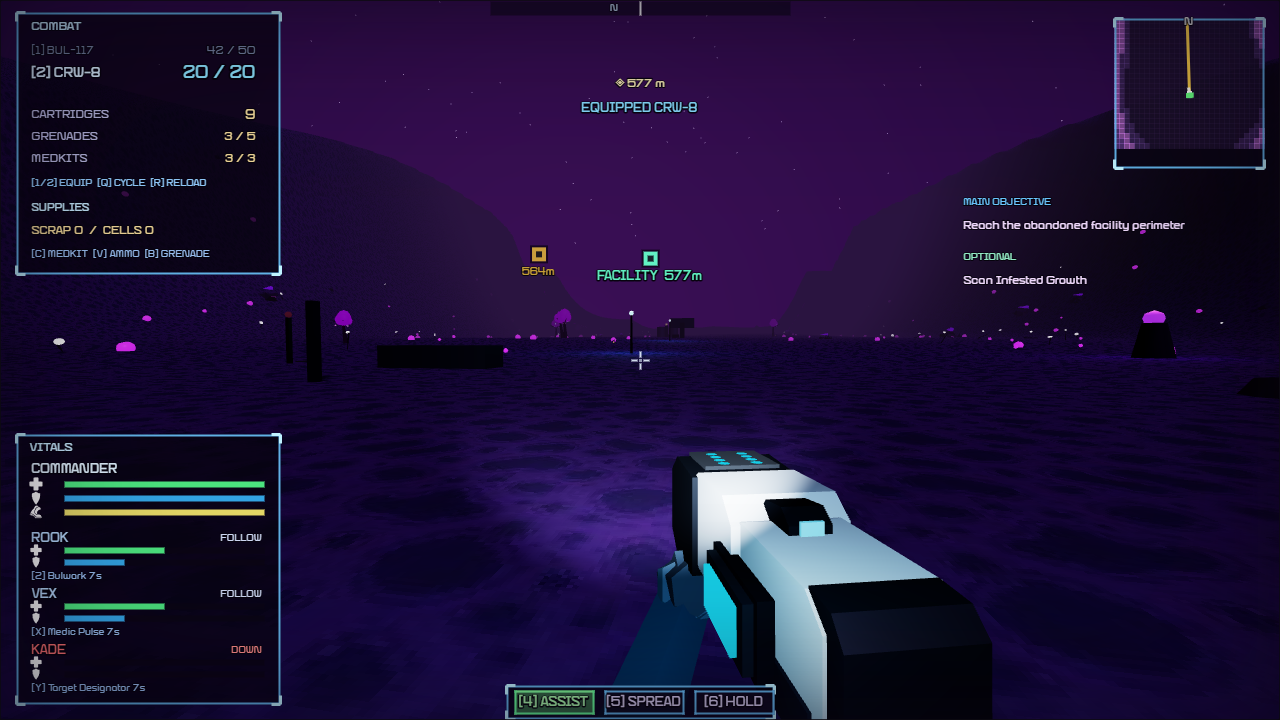
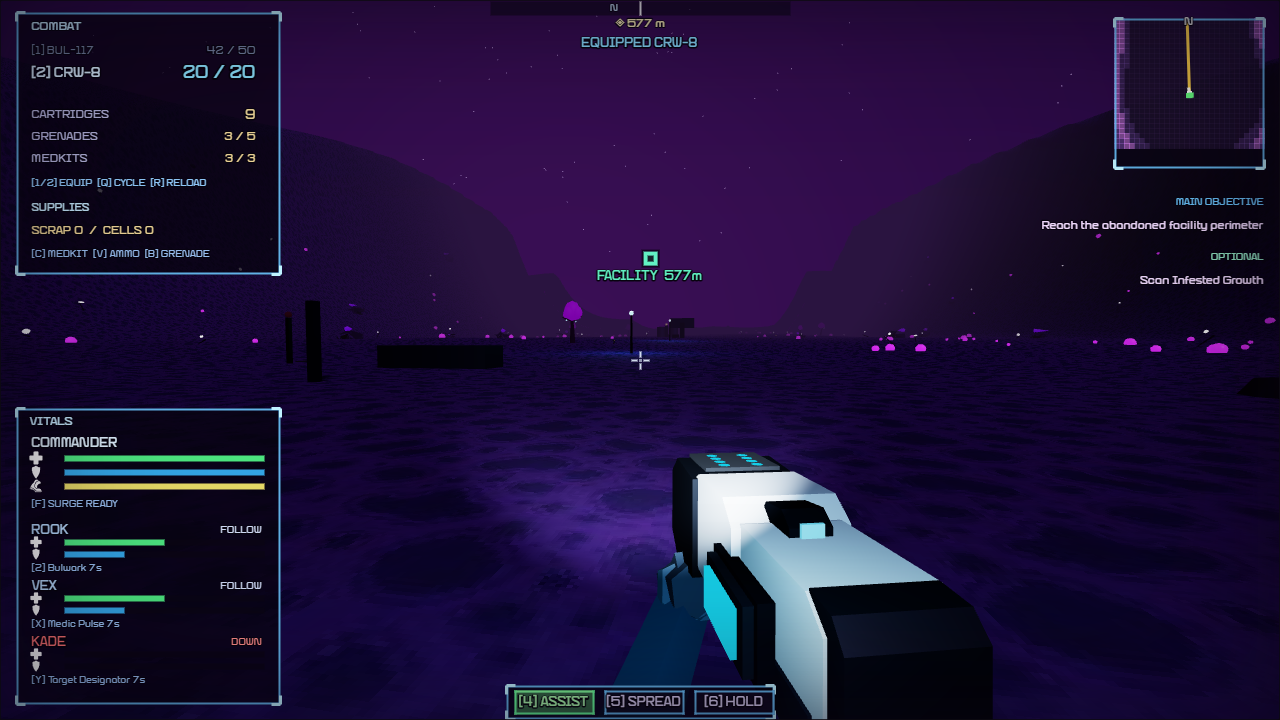
refactor: refine navigation and objective hud

diff --git a/chargefront.html b/chargefront.html
@@ -3546,7 +3546,7 @@ function updateEndless(dt) {
 }
 /* ── run setup ── */
 function resetEndlessRun() {
-    objectiveHUD.clear();
+    objectiveHUD.clear(); clearOptionalMarkerState();
     endlessRun.wave = 0; endlessRun.waveActive = false; endlessRun.waveT = 0;
     endlessRun.budgetLeft = 0; endlessRun.spawnT = 0; endlessRun.alive = 0; endlessRun.bossSpawned = false;
     endlessRun.dna = 0; endlessRun.dnaBanked = 0; endlessRun.milestone = 0; endlessRun.upgrades = [];
@@ -7474,7 +7474,7 @@ let pointerLockGestureFn = null;
 let missionAnalysisTimer = 0;
 
 function resetCampaignRun() {
-    objectiveHUD.clear();
+    objectiveHUD.clear(); clearOptionalMarkerState();
     stopIntroSfx();
     mode = 'campaign';
     const snapshot = campaignSnapshot();
@@ -8287,6 +8287,7 @@ function clearCampaignTransitionCombat() {
 function beginCampaignChapterTransition(completion) {
     stopIntroSfx(); // accelerated M1 completion must not carry its tail into M2
     if (!completion || !completion.nextMission) return;
+    clearOptionalMarkerState();
     const fromId = completion.missionId, toId = completion.nextMission;
     const carriedTurret = fromId === 'sample_zero' && !!campaignRun.worldState.securityTurret;
     campaignRun.encounter.active = false;
@@ -9461,7 +9462,7 @@ const objectiveMeasureContext = document.createElement('canvas').getContext('2d'
 function hudObjectiveStrike(x, y, width, alpha) {
     LJS.drawLine(LJS.vec2(x, y), LJS.vec2(x + width, y), 1.3, LJS.rgb(0.6, 0.95, 0.75, alpha), LJS.vec2(), 0, false, true);
 }
-function drawObjectiveProgress(x, y, width) {
+function drawObjectiveProgress(right, y, width) {
     let text = '', progress = -1, color = LJS.rgb(0.3, 1, 0.8);
     const relay = relayByPhase();
     if (relay?.powering) { text = relay.R.name + '  ' + Math.round(relay.progress * 100) + '%'; progress = relay.progress; }
@@ -9474,16 +9475,16 @@ function drawObjectiveProgress(x, y, width) {
         text = 'INFESTATION PURGE  ' + cleared + ' / ' + nodes.length; progress = nodes.length ? cleared / nodes.length : 0; color = LJS.rgb(1, 0.32, 0.28);
     } else if (phase === P.FINALE) text = 'DROPSHIP READY — BOARD FOR EXTRACTION';
     if (!text) return 0;
-    hudText(text, LJS.vec2(x, y + 6), 10, LJS.rgb(0.85, 1, 0.96), 'left');
-    if (progress >= 0) hudBar(x + width / 2, y + 22, width, 8, progress, color);
+    hudText(text, LJS.vec2(right, y + 6), 10, LJS.rgb(0.85, 1, 0.96), 'right');
+    if (progress >= 0) hudBar(right - width / 2, y + 22, width, 8, progress, color);
     return progress >= 0 ? 32 : 18;
 }
 function drawObjectiveStack(W) {
-    const width = Math.min(300, W * 0.26), x = W - 16 - width;
+    const width = Math.min(300, W * 0.26), right = W - 16, left = right - width;
     let y = 202; // below the unchanged 150 px minimap and its optional legend
     for (const kind of ['main', 'optional']) {
         if (!objectiveHUD.rows.some(row => row.kind === kind)) continue;
-        hudText(kind === 'main' ? 'MAIN OBJECTIVE' : 'OPTIONAL', LJS.vec2(x, y), 10, kind === 'main' ? LJS.rgb(0.42, 0.78, 1) : LJS.rgb(0.58, 0.92, 0.78), 'left');
+        hudText(kind === 'main' ? 'MAIN OBJECTIVE' : 'OPTIONAL', LJS.vec2(right, y), 10, kind === 'main' ? LJS.rgb(0.42, 0.78, 1) : LJS.rgb(0.58, 0.92, 0.78), 'right');
         y += 18;
         for (const row of objectiveHUD.rows) {
             if (row.kind !== kind) continue;
@@ -9503,18 +9504,37 @@ function drawObjectiveStack(W) {
             const bodyHeight = row.lines.length * 15 + (row.extraHeight || 0);
             const context = LJS.mainContext;
             context.save();
-            if (row.completed) { context.beginPath(); context.rect(x - 3, y - 2, width + 6, bodyHeight * collapse + 4); context.clip(); }
+            if (row.completed) { context.beginPath(); context.rect(left - 3, y - 2, width + 6, bodyHeight * collapse + 4); context.clip(); }
             for (let i = 0; i < row.lines.length; i++) {
-                const baseline = y + 6 + i * 15;
-                hudText(row.lines[i], LJS.vec2(x, baseline), 12, row.completed ? LJS.rgb(0.6, 0.88, 0.74, alpha) : LJS.rgb(0.95, 0.86, 1), 'left', row.completed);
-                if (row.completed) hudObjectiveStrike(x, baseline, objectiveMeasureContext.measureText(row.lines[i]).width, alpha);
+                const baseline = y + 6 + i * 15, lineWidth = objectiveMeasureContext.measureText(row.lines[i]).width;
+                hudText(row.lines[i], LJS.vec2(right, baseline), 12, row.completed ? LJS.rgb(0.6, 0.88, 0.74, alpha) : LJS.rgb(0.95, 0.86, 1), 'right', row.completed);
+                if (row.completed) hudObjectiveStrike(right - lineWidth, baseline, lineWidth, alpha);
             }
-            if (!row.completed) row.extraHeight = kind === 'main' ? drawObjectiveProgress(x, y + row.lines.length * 15, width) : 0;
+            if (!row.completed) row.extraHeight = kind === 'main' ? drawObjectiveProgress(right, y + row.lines.length * 15, width) : 0;
             context.restore();
             // Collapse the retiring row smoothly; clip prevents overlap with its successor.
             y += (row.lines.length * 15 + (row.extraHeight || 0) + 12) * (row.completed ? collapse : 1);
         }
         y += 10;
+    }
+}
+/* compact navigation/status stack immediately below the top-center compass */
+const STATUS_TRAVEL_PHASES = [P.MOVE_R1, P.MOVE_R2, P.MOVE_R3, P.MOVE_FAC, P.M1_MOVE_FAC, P.M1_INVESTIGATE, P.M1_RESTORE_POWER, P.M1_COMMAND, P.M2_CONFIRM, P.M3_ENTER_LAB, P.M3_REACH_SECURITY, P.M3_OVERRIDE, P.M3_REACH_SAMPLE, P.M4_BREAK_CONTACT, P.M4_REACH_LZ, P.M4_CALL_EXTRACTION, P.M4_BOARD];
+function drawStatusStack(W) {
+    let y = 24;   // clear of the 14 px-high compass strip centered at y=8
+    const line = (text, size, color) => { hudText(text, LJS.vec2(W / 2, y), size, color, 'center'); y += size + 7; };
+    if (phase === P.FINALE) line('DISTANCE ' + Math.round(Math.hypot(player.pos.x - LZ.x, player.pos.y - LZ.y)) + ' m', 13, LJS.rgb(0.6, 0.9, 1));
+    else if (STATUS_TRAVEL_PHASES.includes(phase)) {
+        const tgt = targetOfPhase();
+        if (tgt) line('◈ ' + Math.round(Math.hypot(tgt.pos.x - player.pos.x, tgt.pos.y - player.pos.y)) + ' m', 12, LJS.rgb(0.95, 0.9, 0.7));
+    }
+    if (phase === P.ENDLESS && endlessRun.waveActive && endlessRun.mutator && endlessRun.waveT < 5) {
+        line('WAVE ' + endlessRun.wave + ' MUTATOR — ' + endlessRun.mutator.name, 14, LJS.rgb(1, 0.82, 0.45));
+        line(endlessRun.mutator.desc, 12, LJS.rgb(1, 0.88, 0.65));
+    }
+    if (toastT > 0) {
+        const a = clamp(toastT, 0, 1), c = colorStr(toastColor);
+        line(toastText, 13, LJS.rgb(c.r, c.g, c.b, a));
     }
 }
 function drawHUD(W, H) {
@@ -9532,37 +9552,14 @@ function drawHUD(W, H) {
 
     /* ── TOP-RIGHT: objective text/progress below the minimap ──────── */
     drawObjectiveStack(W);
-    const optionalLine = optionalObjectiveLine();
-    if (phase === P.FINALE) {
-        const dLZ = Math.hypot(player.pos.x - LZ.x, player.pos.y - LZ.y);
-        hudText('DISTANCE ' + Math.round(dLZ) + ' m', LJS.vec2(W / 2, 72), 13, LJS.rgb(0.6, 0.9, 1), 'center');
-    }
-    if (phase === P.ENDLESS && endlessRun.waveActive && endlessRun.mutator && endlessRun.waveT < 5) {
-        hudText('WAVE ' + endlessRun.wave + ' MUTATOR — ' + endlessRun.mutator.name, LJS.vec2(W / 2, 52), 14, LJS.rgb(1, 0.82, 0.45), 'center');
-        hudText(endlessRun.mutator.desc, LJS.vec2(W / 2, 70), 12, LJS.rgb(1, 0.88, 0.65), 'center');
-    }
 
-    /* ── TOP-CENTER: heading compass strip ─────────────────────────── */
+    /* ── TOP-CENTER: compass strip + compact status stack beneath it ── */
     drawCompass(W, H);
-    /* objective distance during travel phases */
-    if (phase === P.MOVE_R1 || phase === P.MOVE_R2 || phase === P.MOVE_R3 || phase === P.MOVE_FAC || phase === P.M1_MOVE_FAC || phase === P.M1_INVESTIGATE || phase === P.M1_RESTORE_POWER || phase === P.M1_COMMAND || phase === P.M2_CONFIRM || phase === P.M3_ENTER_LAB || phase === P.M3_REACH_SECURITY || phase === P.M3_OVERRIDE || phase === P.M3_REACH_SAMPLE || phase === P.M4_BREAK_CONTACT || phase === P.M4_REACH_LZ || phase === P.M4_CALL_EXTRACTION || phase === P.M4_BOARD) {
-        const tgt = targetOfPhase();
-        if (tgt) {
-            const dist = Math.hypot(tgt.pos.x - player.pos.x, tgt.pos.y - player.pos.y);
-            hudText('◈ ' + Math.round(dist) + ' m', LJS.vec2(W / 2, optionalLine ? 84 : 48), 12, LJS.rgb(0.95, 0.9, 0.7), 'center');
-        }
-    }
-
-    /* transient notification toast — one short line, fades out (replaces the combat log) */
-    if (toastT > 0) {
-        const a = clamp(toastT, 0, 1);
-        const c = colorStr(toastColor);
-        hudText(toastText, LJS.vec2(W / 2, 108), 13, LJS.rgb(c.r, c.g, c.b, a), 'center');
-    }
+    drawStatusStack(W);
 
     /* ── BOTTOM-LEFT: icon-led Commander / squad VITALS ───────────── */
-    const sx0 = 16, sy0 = H - 286;
-    hudPanel(sx0 + 132, sy0 + 135, 264, 270, ACCENT);
+    const sx0 = 16, sy0 = H - 312;
+    hudPanel(sx0 + 132, sy0 + 148, 264, 296, ACCENT);
     hudText('VITALS', LJS.vec2(sx0 + 14, sy0 + 14), 12, LJS.rgb(0.78, 0.92, 1), 'left');
     hudText('COMMANDER', LJS.vec2(sx0 + 16, sy0 + 35), 13, LJS.rgb(0.88, 0.95, 1), 'left');
     hudStatusIcon('health', sx0 + 20, sy0 + 50);
@@ -9571,9 +9568,10 @@ function drawHUD(W, H) {
     hudBar(sx0 + 148, sy0 + 64, 200, 6, player.shield / player.maxShield, LJS.rgb(0.2, 0.65, 0.9), null, false);
     hudStatusIcon('stamina', sx0 + 20, sy0 + 78);
     hudBar(sx0 + 148, sy0 + 78, 200, 6, player.stamina / 100, LJS.rgb(0.9, 0.85, 0.4), null, false);
+    hudText('[F] SURGE ' + (player.abilityCd > 0 ? player.abilityCd.toFixed(1) + 's' : 'READY'), LJS.vec2(sx0 + 16, sy0 + 96), 10, LJS.rgb(0.6, 0.75, 0.95), 'left');
     for (let i = 0; i < squadMembers.length; i++) {
         const m = squadMembers[i];
-        const ry = sy0 + 104 + i * 56;
+        const ry = sy0 + 122 + i * 56;
         const d = Math.hypot(player.pos.x - m.pos.x, player.pos.y - m.pos.y);
         const outAmmo = m.mag <= 0 && m.reserve <= 0;
         const st = m.downed ? 'DOWN' : outAmmo ? 'OUT' : m.reloading ? 'RELOAD' : d > 70 ? 'AWAY' : d > 25 ? 'AFAR' : m.aiMode === SQUAD_AI_MODE.DEFEND_OBJECTIVE ? 'DEFEND' : m.aiMode;
@@ -9730,7 +9728,7 @@ function createCampaignCheckpointSnapshot() {
 }
 function applyCampaignCheckpointSnapshot(snapshot) {
     if (!snapshot || snapshot.missionId !== activeMissionId || !CAMPAIGN_CHECKPOINT_PHASES[activeMissionId]) return false;
-    objectiveHUD.clear();
+    objectiveHUD.clear(); clearOptionalMarkerState();
     const boundary = JSON.parse(JSON.stringify(snapshot));
     campaignRun.entryMode = 'campaign_resume'; campaignRun.restartSnapshot = boundary;
     campaignRun.worldState = Object.assign({}, campaignRun.worldState, boundary.worldState || {});
@@ -9883,7 +9881,7 @@ function checkpointMission4State() {
 }
 function applyContinuedMission4Snapshot(snapshot) {
     if (!snapshot || activeMissionId !== 'break_contact') return;
-    objectiveHUD.clear();
+    objectiveHUD.clear(); clearOptionalMarkerState();
     const boundary = JSON.parse(JSON.stringify(snapshot));
     campaignRun.entryMode = 'continued'; campaignRun.restartSnapshot = boundary;
     campaignRun.worldState.securityTurret = !!boundary.securityTurret; campaignRun.enemyIntel = !!boundary.enemyIntel;
@@ -10083,6 +10081,18 @@ function drawResultScreen(W, H) {
 
 function colorStr(c) { const m = /^#([0-9a-f]{6})$/i.exec(c); if (!m) return LJS.rgb(1, 1, 1); return LJS.rgb(parseInt(m[1].slice(0, 2), 16) / 255, parseInt(m[1].slice(2, 4), 16) / 255, parseInt(m[1].slice(4, 6), 16) / 255); }
 
+/* Optional-objective markers appear only when the player is close, with a small
+   hysteresis band to prevent flicker at the threshold. Main-objective markers are
+   unaffected. Appear at 100 m, hide again only past 110 m. */
+const OPTIONAL_MARKER_NEAR = 100, OPTIONAL_MARKER_FAR = 110;
+const optionalMarkerState = new Map();
+function optionalMarkerVisible(target) {
+    const was = !!optionalMarkerState.get(target.short);
+    const visible = was ? target.distance <= OPTIONAL_MARKER_FAR : target.distance <= OPTIONAL_MARKER_NEAR;
+    optionalMarkerState.set(target.short, visible);
+    return visible;
+}
+function clearOptionalMarkerState() { optionalMarkerState.clear(); }
 function drawMarkers(W, H) {
     if (mode === 'endless') { drawEndlessMarkers(W, H); return; }
     const targets = [];
@@ -10143,8 +10153,9 @@ function drawMarkers(W, H) {
     if (phase === P.SEARCH && vial.group) targets.push({ pos: LJS.vec2(vial.group.position.x, vial.group.position.y), label: 'CLONE DNA VIAL', short: 'DNA VIAL', color: 0x66ffcc, priority: 100, primary: true });
     if (phase === P.FINALE) targets.push({ pos: LZ, label: 'LANDING ZONE', short: 'LZ', color: 0x66ffcc, priority: 100, primary: true });
     for (const target of targets) target.distance = Math.hypot(target.pos.x - player.pos.x, target.pos.y - player.pos.y);
-    targets.sort((a, b) => b.priority - a.priority || a.distance - b.distance);
-    const selected = targets.filter((target) => target.primary).concat(targets.filter((target) => target.optional).slice(0, 2));
+    const visibleTargets = targets.filter((target) => !target.optional || optionalMarkerVisible(target));
+    visibleTargets.sort((a, b) => b.priority - a.priority || a.distance - b.distance);
+    const selected = visibleTargets.filter((target) => target.primary).concat(visibleTargets.filter((target) => target.optional).slice(0, 2));
     const placed = [];
     const forward = new THREE.Vector3(); camera.getWorldDirection(forward);
     const cameraRight = new THREE.Vector3().setFromMatrixColumn(camera.matrixWorld, 0);
@@ -11158,6 +11169,7 @@ window.__cf = {
     },
     objectiveHUDInfo() { return objectiveHUD.snapshot(); },
     advanceObjectiveHUD(seconds = 0) { updateObjectiveHUD(Math.max(0, seconds)); return objectiveHUD.snapshot(); },
+    optionalMarkerInfo() { return { near: OPTIONAL_MARKER_NEAR, far: OPTIONAL_MARKER_FAR, state: Object.fromEntries(optionalMarkerState) }; },
     effectInfo() { return { impacts: impacts.map(f => f.mesh.position.toArray()), arcs: electricArcs.length, arcPool: electricArcPool.length }; },
     restartEndless() { if (mode === 'endless') restartEndlessRun(); },
     get weaponDefinitions() { return PLAYER_WEAPONS; },

diff --git a/MILESTONE-4.1-ENDLESS-HUD.md b/MILESTONE-4.1-ENDLESS-HUD.md
@@ -523,3 +523,38 @@ Selected evidence: `_playtest/m41/hud-flow/` contains four PNGs —
 Supplemental existing-suite output stays local under ignored
 `_playtest/m41/regressions/hud-flow/`. The two follow-ups use separate sprint and
 HUD commits. No Milestone 4.2, push or merge.
+
+## Follow-up — navigation status, objective alignment, Commander ability
+
+- Top-center state text (waypoint distance, FINALE distance, wave-mutator
+  announcement, transient notifications/EQUIPPED toasts) now renders as a compact
+  centered stack beginning at **y=24**, directly beneath the unchanged 14 px
+  compass strip (centered y=8). No travel/status text remains at the old mid-screen
+  positions, and the crosshair/central view stays clear. `drawStatusStack()` keeps
+  lines 12–14 px with 7 px gaps; interaction prompts stay at the bottom action bar.
+- The main/optional objective stack below the minimap is now **right-aligned** to
+  `W − 16`, sharing the minimap's right edge. Label, body and wrapped lines all
+  right-align, the optional progress bar is right-centered, and the strike-through
+  tracks each wrapped line's right-aligned span. Width stays capped at 300 px so
+  long objectives never spread toward screen center. Hold/fade/collapse unchanged.
+- Optional-objective world/HUD markers now appear only within a proximity band:
+  **appear at 100 m, hide again past 110 m** (hysteresis prevents threshold
+  flicker). Main-objective, route and waypoint markers are unchanged. Completed
+  optional objectives never reappear, and per-target marker state is cleared on
+  fresh runs, checkpoint/Continue restoration and chapter transitions.
+- VITALS adds a Commander ability line in the squad's visual language:
+  `[F] SURGE READY` or `[F] SURGE 21.3s`, driven by the existing `player.abilityCd`
+  (canonical Surge Pulse on F). It sits after the three Commander stat rows with a
+  small separation before ROOK. The panel grows 24 px to **264×296** (top edge
+  `H − 312`); all three squad entries keep an 18 px gap between ability text and
+  the next operator name. No ability system changed.
+
+Validation: new `tests/hud-navigation.mjs` passes in headed Edge and headless
+Firefox (status y=24, right alignment, optional 100/110 hysteresis with no
+in-band flicker, transition clearing, SURGE READY→cooldown). Updated
+`hud-refinement`, `objective-hud-flow` and `endless-hud` pass in both browsers,
+including 1280×720/1366×768/1920×1080 layout/text-bound checks. Pure combat-state
+and objective-state suites pass. Evidence: `_playtest/m41/navigation/`
+(`01-compass-status-stack`, `02-objectives-right-aligned`,
+`03-commander-ability`, `04-optional-far-hidden`, `05-optional-near-visible`,
+`navigation-{edge,firefox}.json`).
